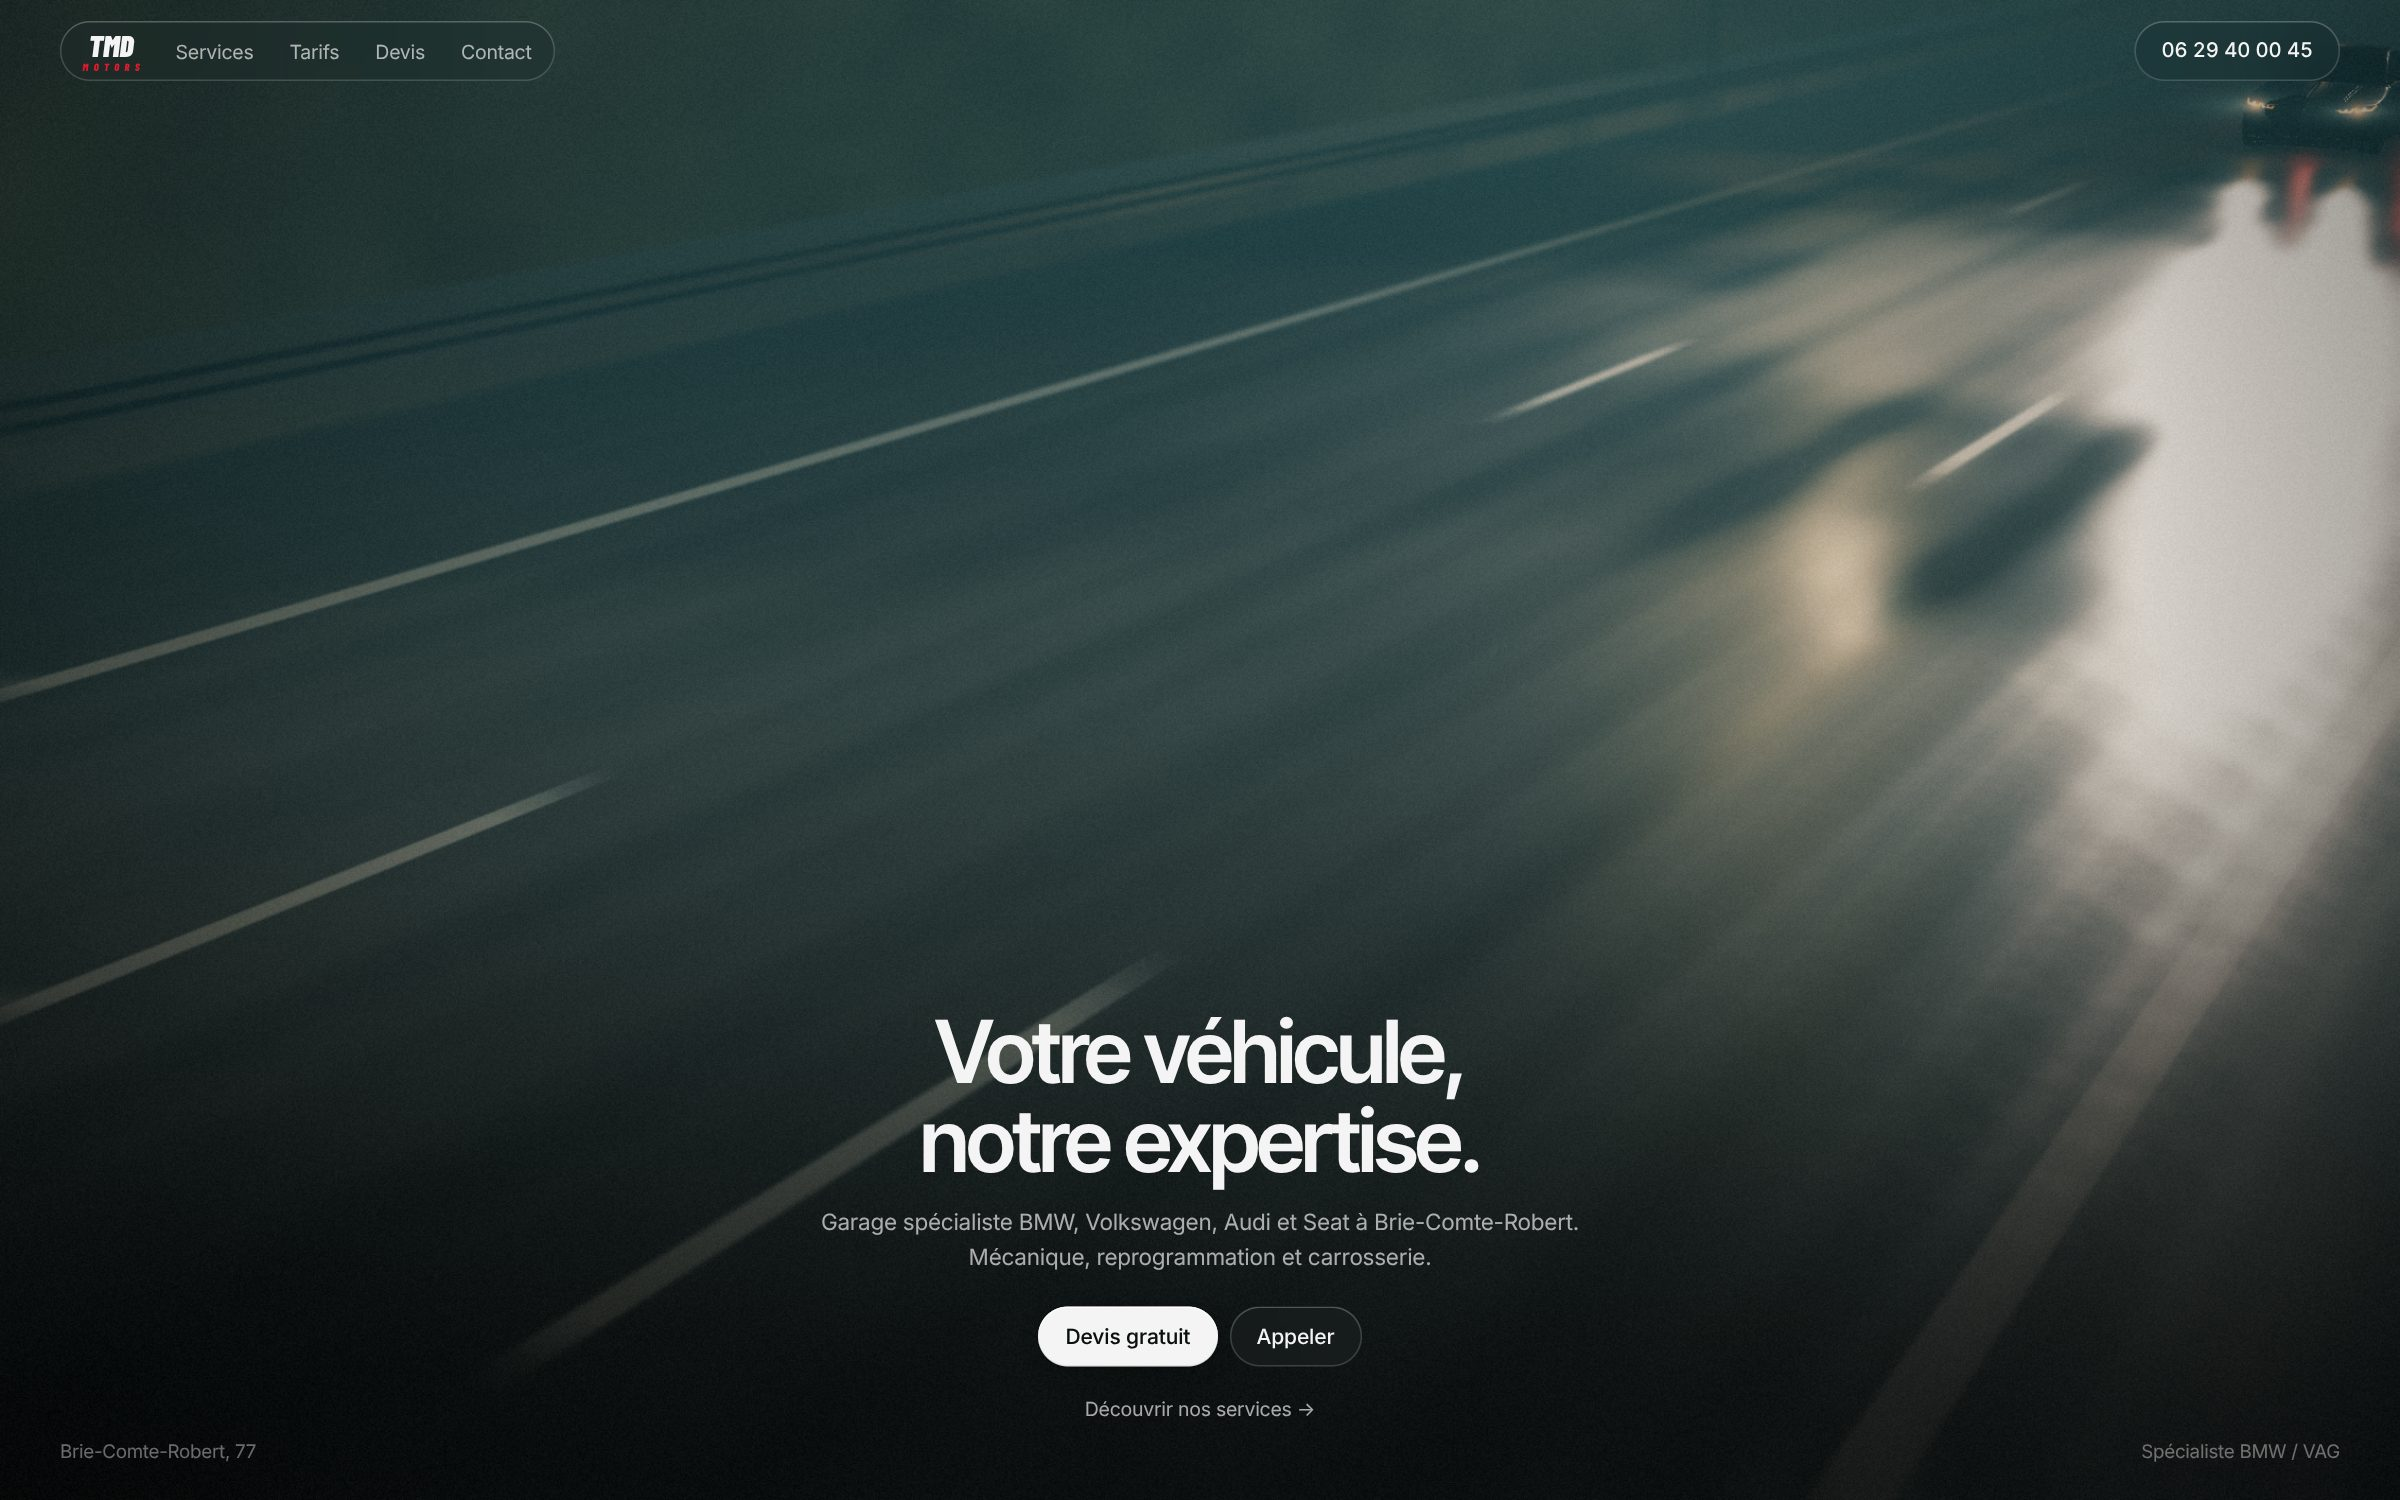
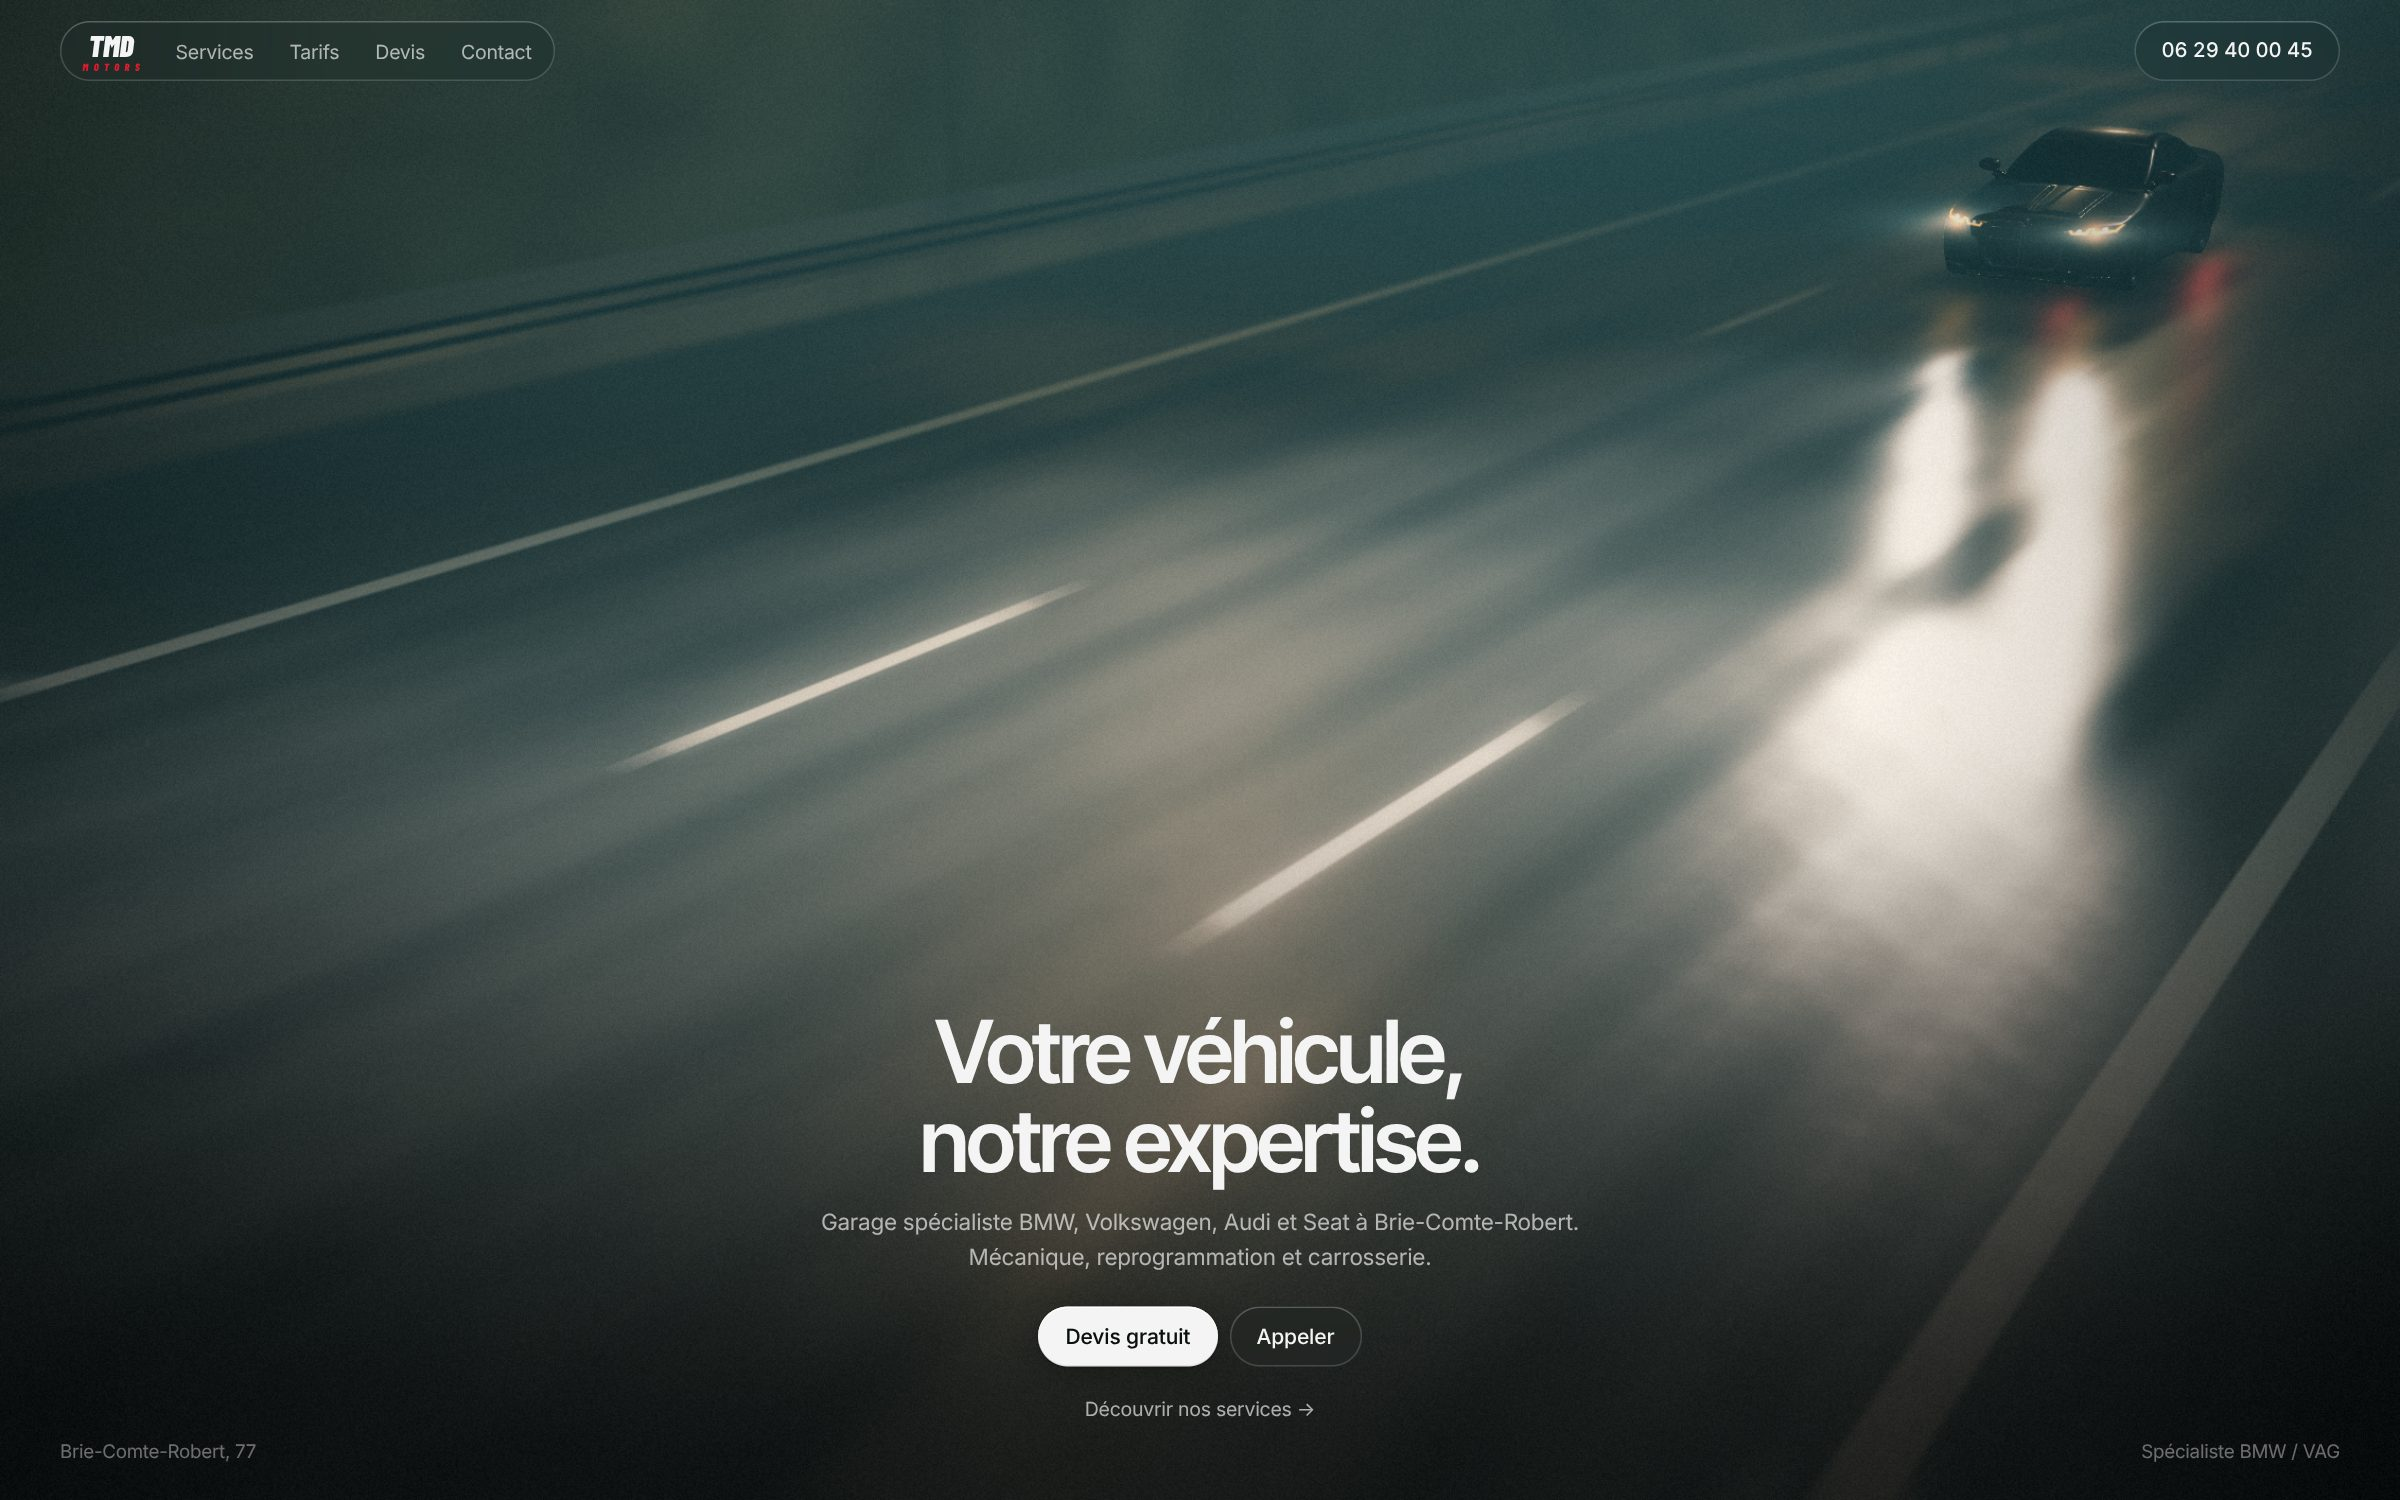
Créations : captures plus parlantes de la version 2 de TMD Motors (voiture 3D, pages Services et Tarifs)
Claude-Session: https://claude.ai/code/session_01B3xJk3zm6Z7FQo4swAFvVK

diff --git a/realisations.html b/realisations.html
@@ -9,7 +9,7 @@
 <link rel="preconnect" href="https://fonts.googleapis.com">
 <link rel="preconnect" href="https://fonts.gstatic.com" crossorigin>
 <link rel="stylesheet" href="https://fonts.googleapis.com/css2?family=Bricolage+Grotesque:opsz,wght@12..96,500;12..96,600;12..96,700;12..96,800&family=Instrument+Serif:ital@0;1&family=JetBrains+Mono:wght@400;500&family=Manrope:wght@400;500;600&display=swap">
-<link rel="stylesheet" href="assets/style.css?v=17">
+<link rel="stylesheet" href="assets/style.css?v=18">
 <link rel="stylesheet" href="assets/phone.css?v=16" media="(max-width: 760px)">
 <script>try{if(sessionStorage.getItem("ms-curtain")==="1"&&!matchMedia("(prefers-reduced-motion: reduce)").matches)document.documentElement.classList.add("arriving")}catch(e){}</script>
 </head>
@@ -117,8 +117,12 @@
           </div>
           <figure class="v-phone" style="margin:0"><img decoding="async" src="img/tmd-v2-telephone.jpg" alt="La version 2 du site TMD Motors sur téléphone" loading="lazy" width="780" height="1688"></figure>
         </div>
+        <div class="v-more">
+          <img decoding="async" src="img/tmd-v2-services.jpg" alt="La page Services de la version 2 : grandes tuiles animées" loading="lazy" width="1200" height="750">
+          <img decoding="async" src="img/tmd-v2-tarifs.jpg" alt="La page Tarifs de la version 2 : prix qui s’anime selon le stage" loading="lazy" width="1200" height="750">
+        </div>
         <ul class="v-list">
-          <li>Accueil plein écran avec une route de nuit animée en 3D</li>
+          <li>Accueil plein écran en 3D : une BMW M3 roule de nuit</li>
           <li>Pages façon Apple : textes qui s’allument au défilement</li>
           <li>Grandes tuiles avec dessins animés</li>
           <li>Devis en 3 étapes et plan Google intégré</li>

diff --git a/index.html b/index.html
@@ -9,7 +9,7 @@
 <link rel="preconnect" href="https://fonts.googleapis.com">
 <link rel="preconnect" href="https://fonts.gstatic.com" crossorigin>
 <link rel="stylesheet" href="https://fonts.googleapis.com/css2?family=Bricolage+Grotesque:opsz,wght@12..96,500;12..96,600;12..96,700;12..96,800&family=Instrument+Serif:ital@0;1&family=JetBrains+Mono:wght@400;500&family=Manrope:wght@400;500;600&display=swap">
-<link rel="stylesheet" href="assets/style.css?v=17">
+<link rel="stylesheet" href="assets/style.css?v=18">
 <link rel="stylesheet" href="assets/home.css?v=16">
 <link rel="stylesheet" href="assets/phone.css?v=16" media="(max-width: 760px)">
 <script>try{if(sessionStorage.getItem("ms-curtain")==="1"&&!matchMedia("(prefers-reduced-motion: reduce)").matches)document.documentElement.classList.add("arriving")}catch(e){}</script>

diff --git a/devis.html b/devis.html
@@ -9,7 +9,7 @@
 <link rel="preconnect" href="https://fonts.googleapis.com">
 <link rel="preconnect" href="https://fonts.gstatic.com" crossorigin>
 <link rel="stylesheet" href="https://fonts.googleapis.com/css2?family=Bricolage+Grotesque:opsz,wght@12..96,500;12..96,600;12..96,700;12..96,800&family=Instrument+Serif:ital@0;1&family=JetBrains+Mono:wght@400;500&family=Manrope:wght@400;500;600&display=swap">
-<link rel="stylesheet" href="assets/style.css?v=17">
+<link rel="stylesheet" href="assets/style.css?v=18">
 <link rel="stylesheet" href="assets/phone.css?v=16" media="(max-width: 760px)">
 <script>try{if(sessionStorage.getItem("ms-curtain")==="1"&&!matchMedia("(prefers-reduced-motion: reduce)").matches)document.documentElement.classList.add("arriving")}catch(e){}</script>
 </head>

diff --git a/assets/style.css b/assets/style.css
@@ -480,3 +480,5 @@ html.arriving body{overflow:hidden}
 .v-diff{margin-top:clamp(18px,2vw,28px);color:var(--muted);max-width:70ch}
 .v-diff b{color:var(--fg);font-weight:600}
 @media (max-width:900px){.versions{grid-template-columns:1fr}}
+.v-more{display:grid;grid-template-columns:1fr 1fr;gap:12px}
+.v-more img{width:100%;height:auto;border-radius:12px;border:1px solid var(--line)}
